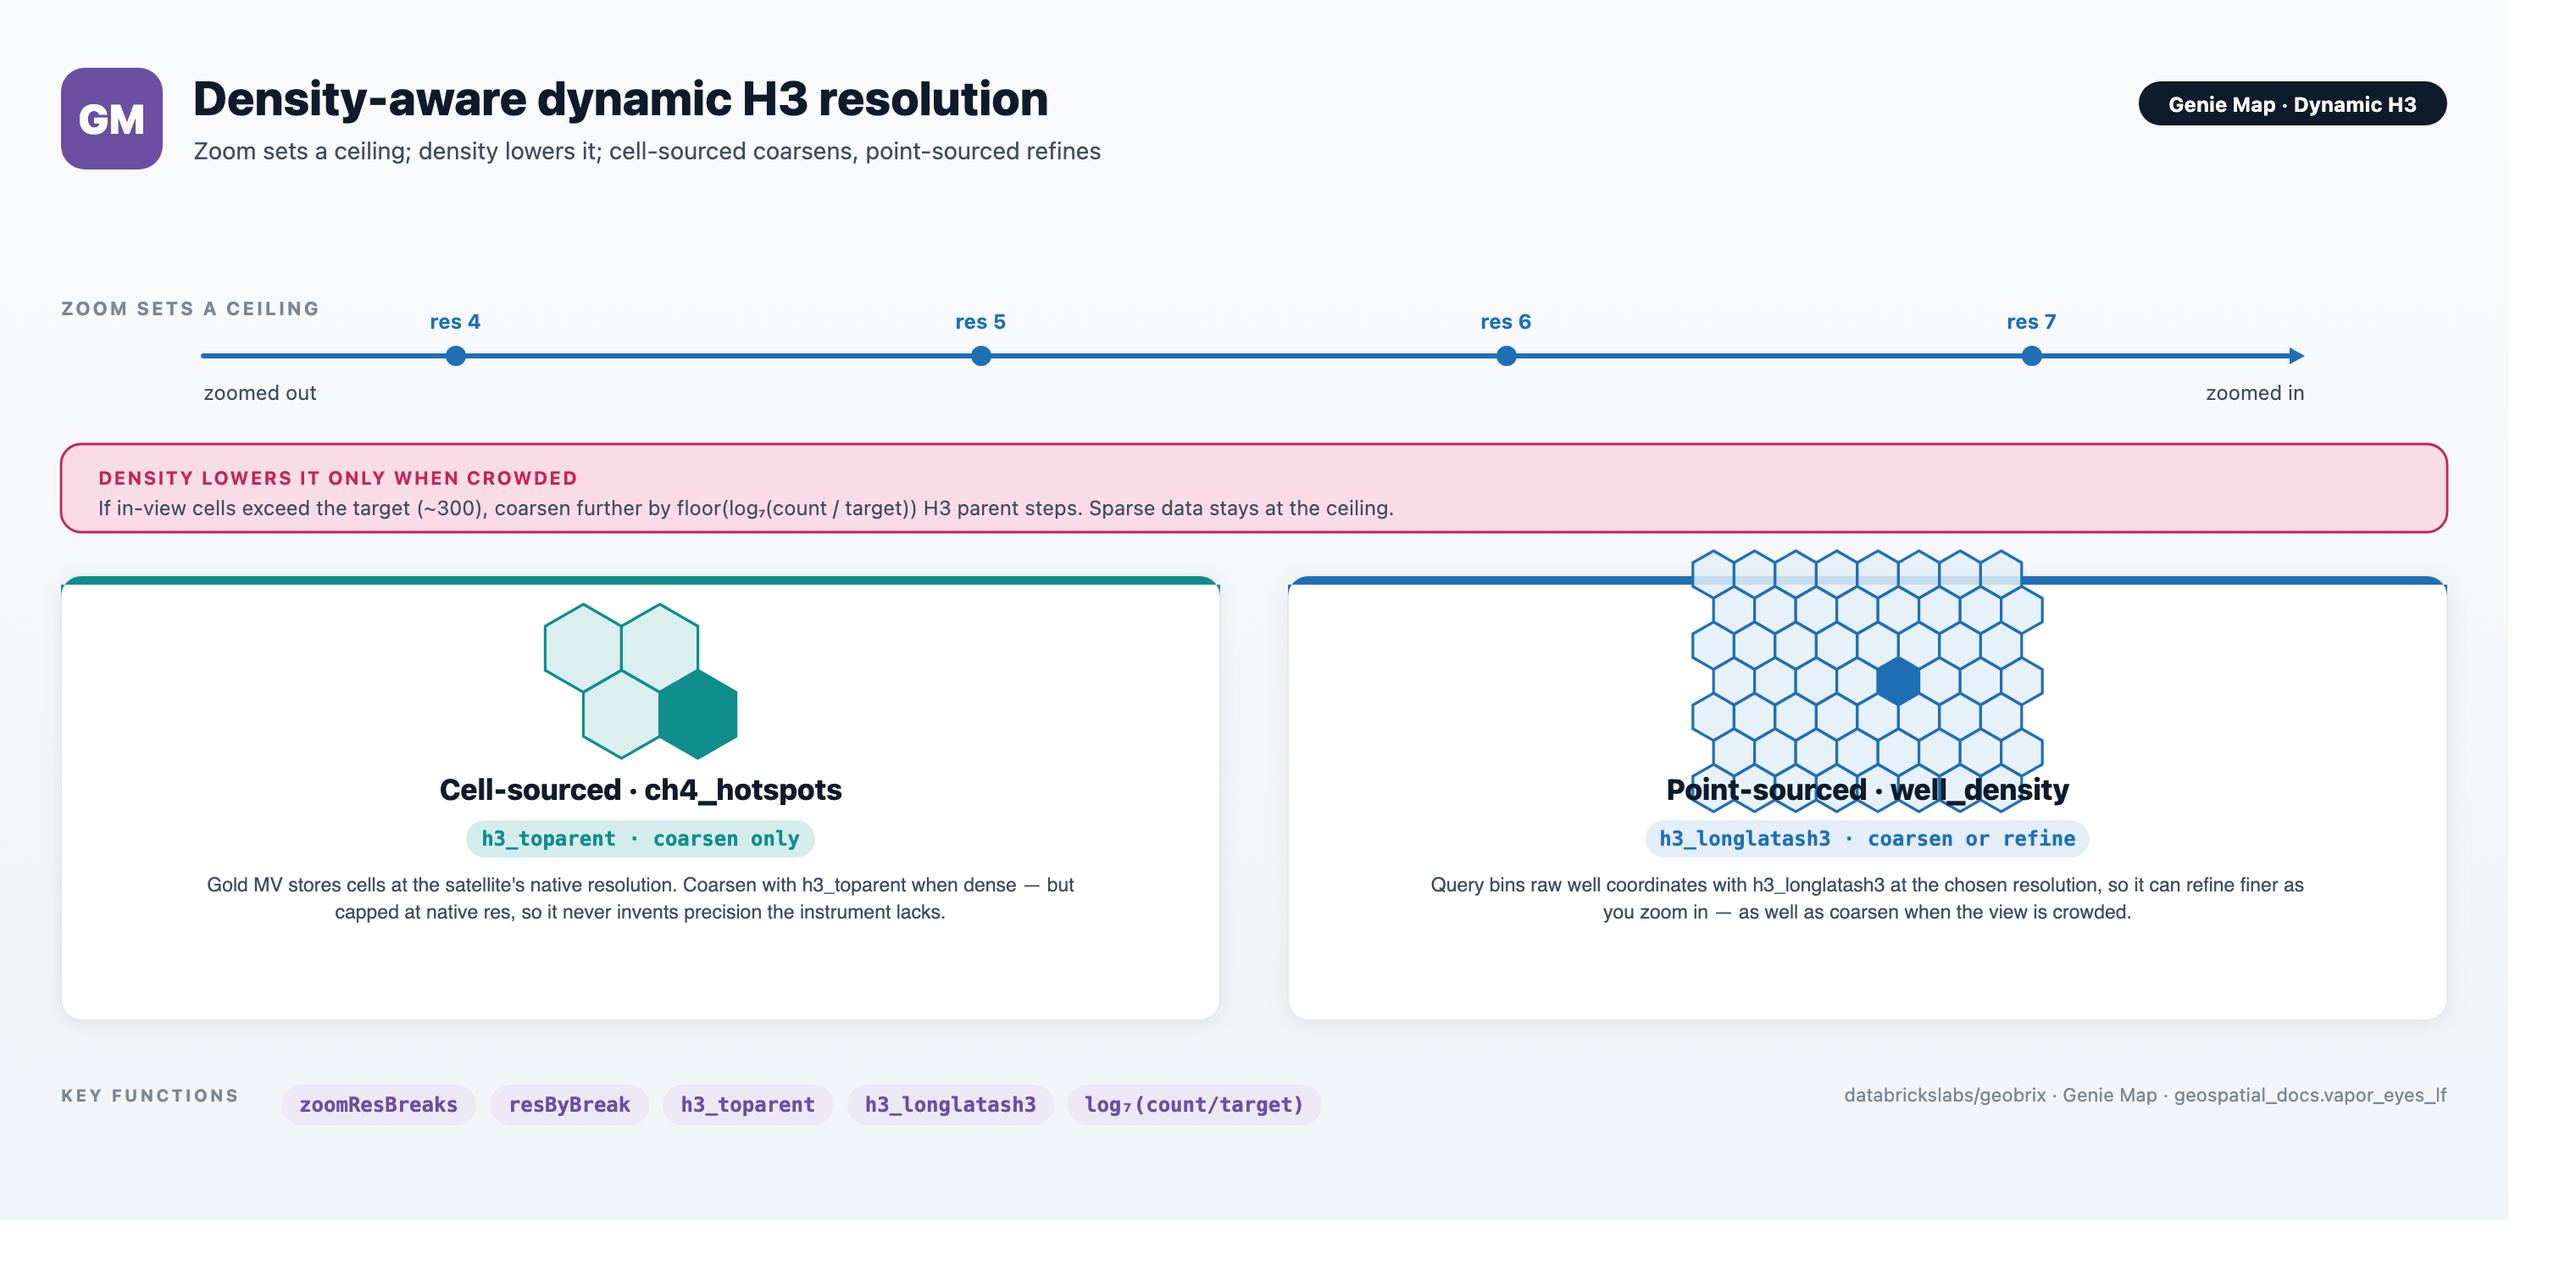
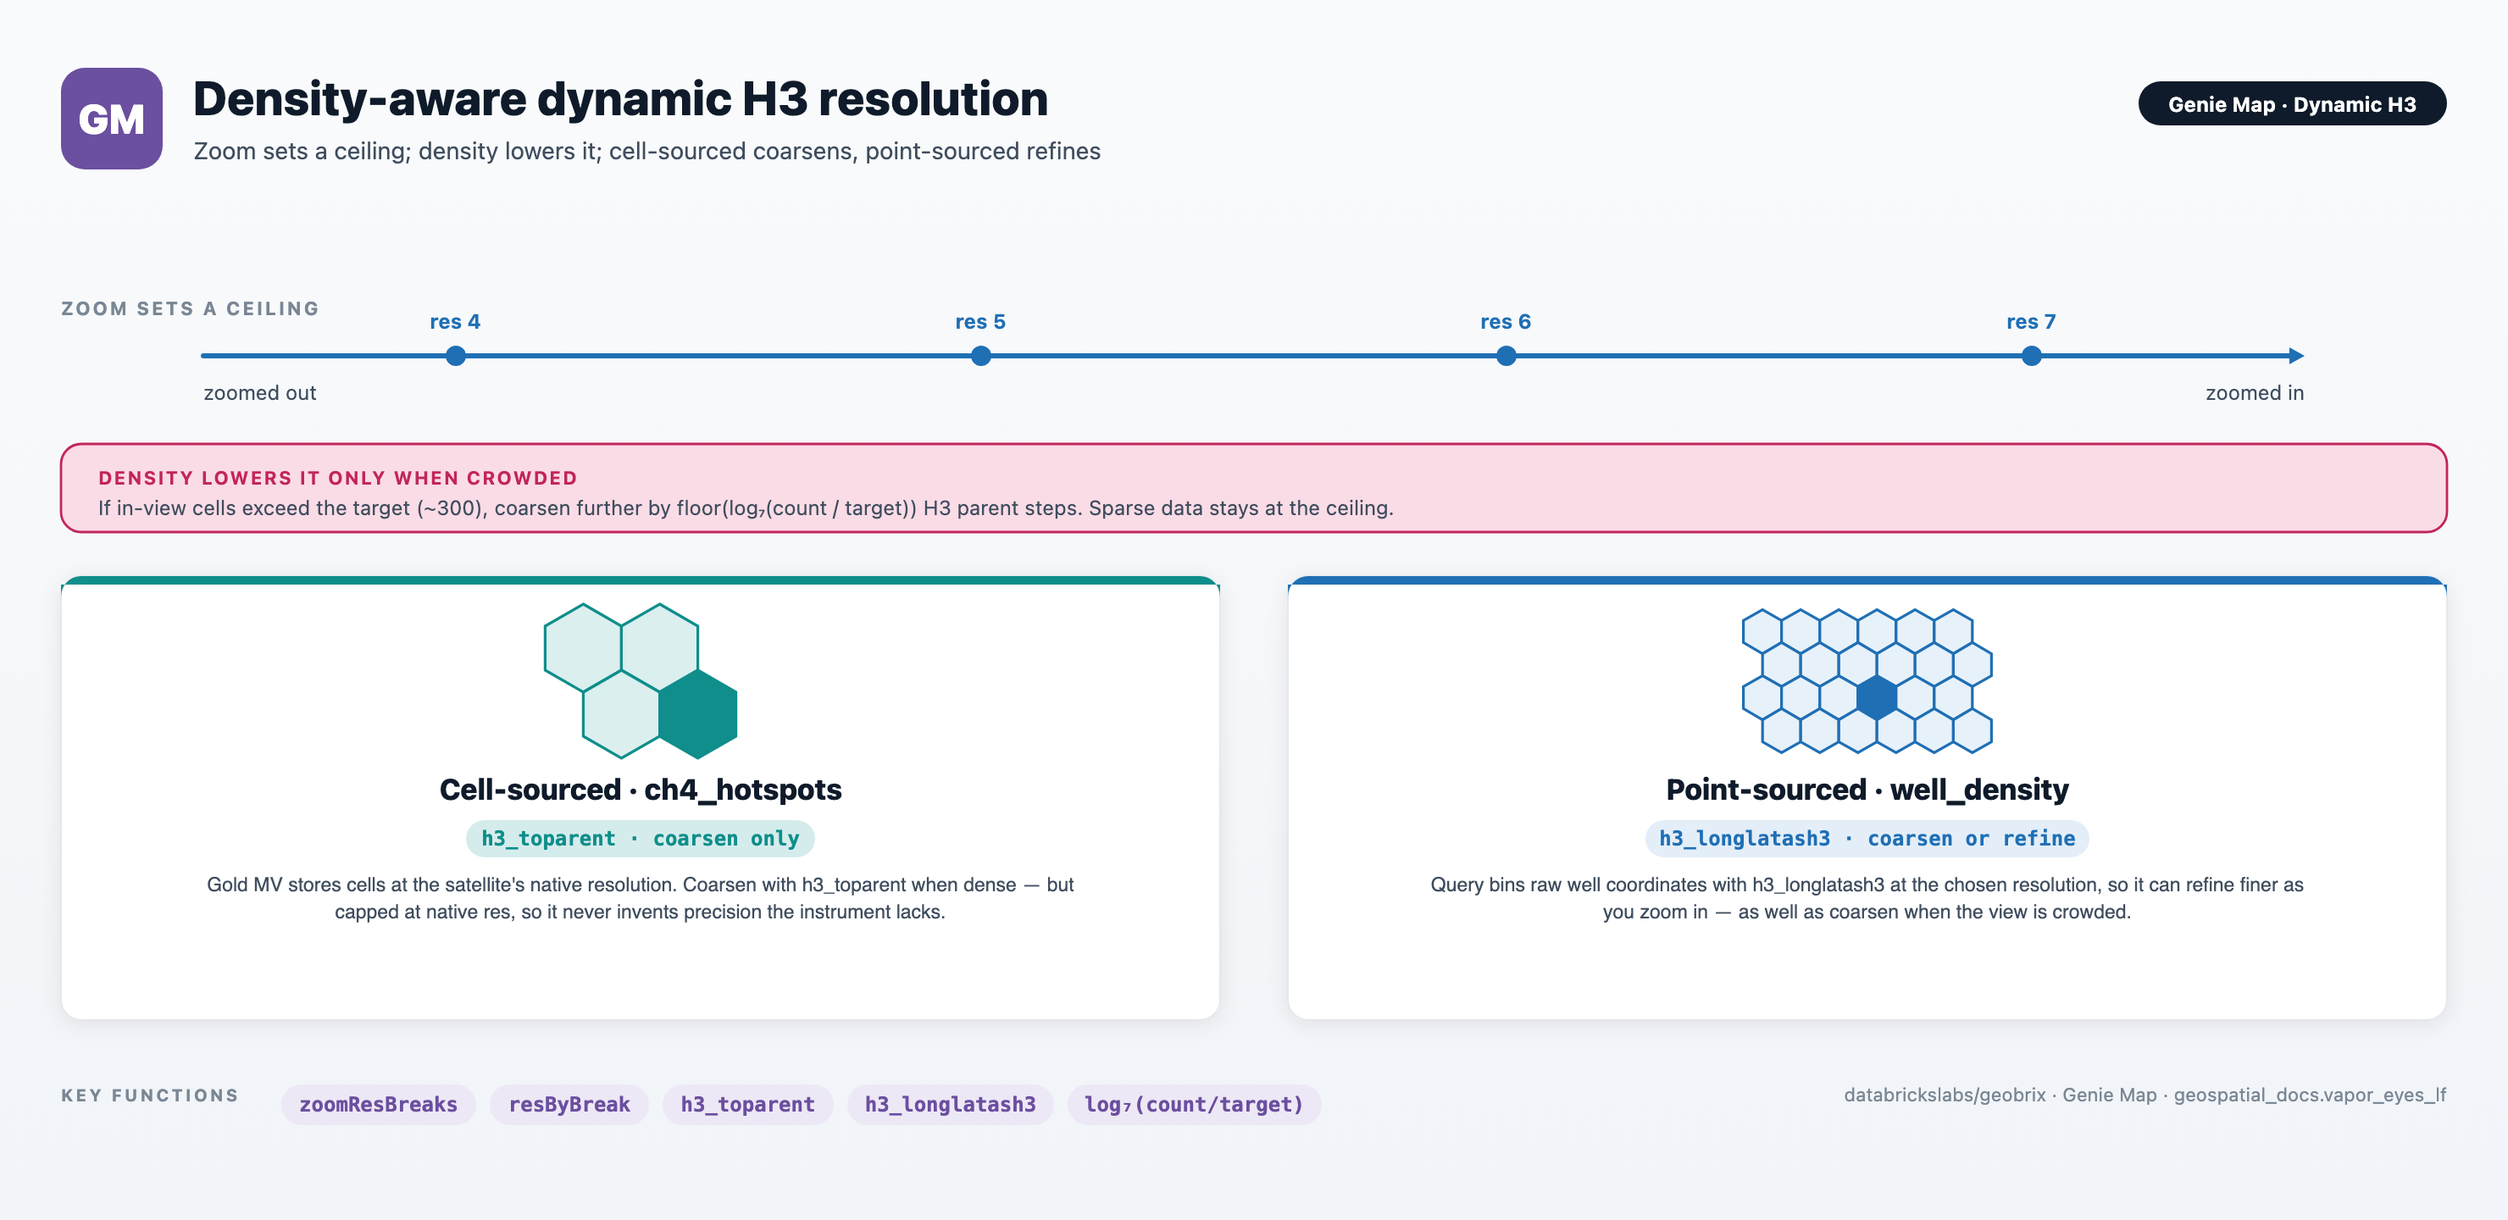
fix(genie-map): size dynamic-h3 point-sourced glyph to fit its card
The point-sourced (well_density) card used eo.g_dense_hex_grid (R=14 x 7
rows ~154px tall) inside a 96px glyph slot, so it overflowed the card's
top border and bled into the title. Replace with a fitted g_hex_grid
(R=13 x 4 rows ~84px) that stays inside the card and reads as the finer
grid vs the coarse 2x2 on the left.

diff --git a/resources/images/generators/genie-map.py b/resources/images/generators/genie-map.py
@@ -220,7 +220,10 @@ def g_coarse_hex(cx, cy, color, tint):
 
 
 def g_fine_hex(cx, cy, color, tint):
-    return eo.g_dense_hex_grid(cx, cy, color, tint)
+    # Sized to fit the card's glyph_h (~96px): R=13, 4 rows ≈ 84px tall, so it
+    # stays inside the card and clear of the title. (eo.g_dense_hex_grid is R=14
+    # x 7 rows ≈ 154px — it overflows this card, so we don't use it here.)
+    return eo.g_hex_grid(cx, cy, color, tint, R=13, rows=4, cols=6)
 
 
 def g_points(cx, cy, color, tint):
